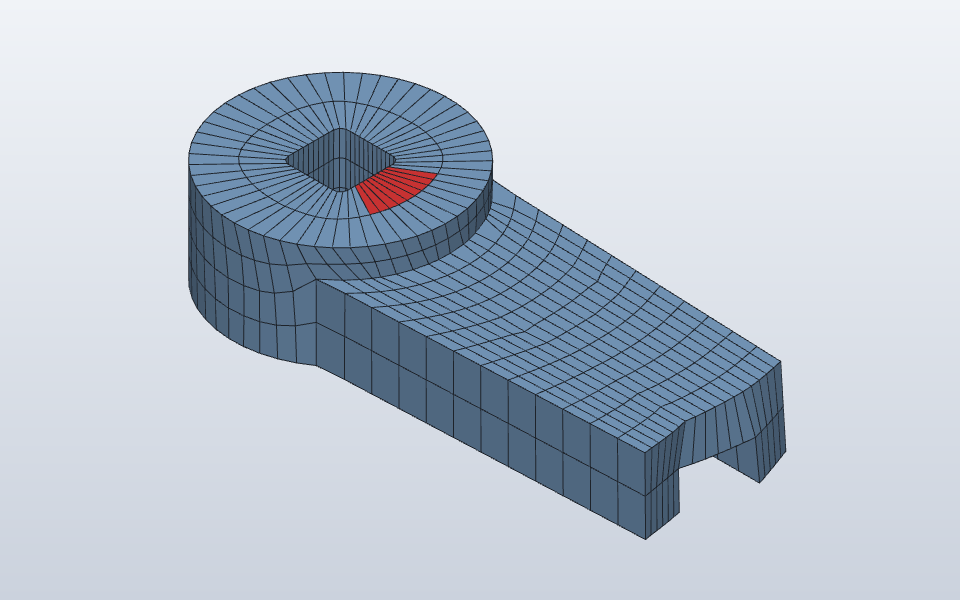
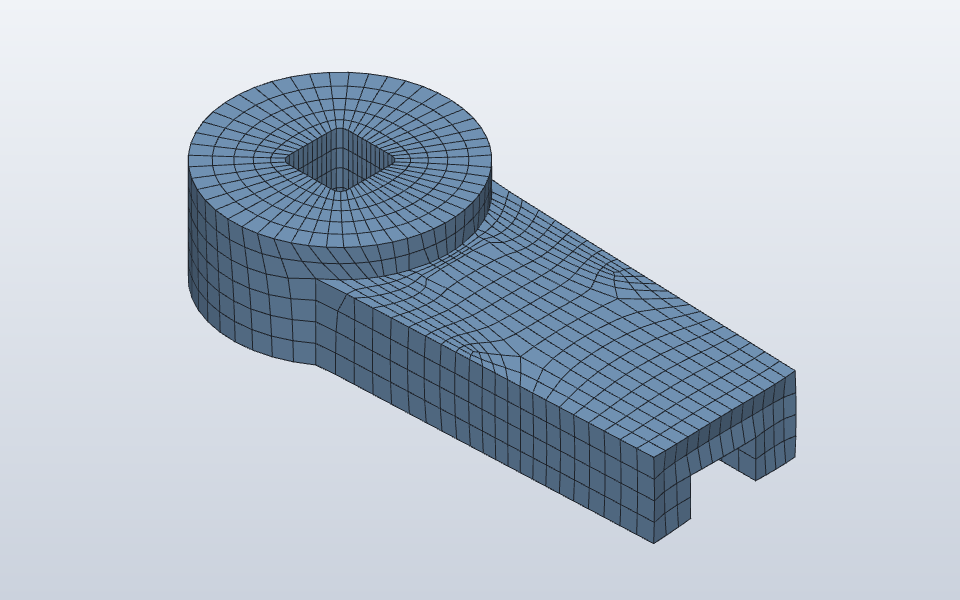
docs: skill results with the plan sized for its chords
Claude-Session: https://claude.ai/code/session_01UhhZMBTviDQxZvwnyP89fo

Changed region(s): [[0.1875, 0.12, 0.8438, 0.9]]

diff --git a/docs/meshing/skill-results.md b/docs/meshing/skill-results.md
@@ -19,7 +19,7 @@ with (a set on them finds nothing); `marked` the elements failing the limits bef
 relaxing, and what relaxing changed; ¹ a tet mesh has no edge ratio: its largest aspect ratio
 stands in; `duplicates` coincident nodes and cracks; `geometry.check` its findings at the size;
 `verdict` pass when the minimum scaled Jacobian and the largest edge ratio meet the limits and
-the volume is within 2 % (`pass (fallback)` when a fallback meshed it).
+the volume is within 1 % (`pass (fallback)` when a fallback meshed it).
 The section pictures cut each part through the middle of its longest side, marked elements red.
 Times are wall clock on the machine that ran it.
 
@@ -27,43 +27,41 @@ Times are wall clock on the machine that ran it.
 
 | part | method | symmetry | elements | min SJ | mean SJ | max edge ratio¹ | volume error | untagged faces | marked → after relax | duplicates | geometry.check | time s | verdict | section |
 |---|---|---|---|---|---|---|---|---|---|---|---|---|---|---|
-| bent-tube | plan (sweep) | – | 192 (192 hex8) | 0.861 | 0.865 | 5.0 | -1.7e-1 | 0 | 0 (not relaxed) | none | 8 near_faces, 2 sliver_face | 1.9 | fail (volume) | [y=37.500](skill/bent-tube.png) |
-| bolted-assembly | plan (sweep), mesh.hex.generate (auto) | – | 6272 (6272 hex8) | 0.583 | 0.939 | 3.6 | 2.0e-4 | 0 | 0 (not relaxed) | 8 coincident, 0 cracks | – | 3.9 | pass | [x=50.000](skill/bolted-assembly.png) |
-| cantilever-i-beam | plan (sweep) | – | 61600 (61600 hex8) | 1.000 | 1.000 | 1.0 | 0.0e0 | 0 | 0 (not relaxed) | none | – | 5.7 | pass | [x=100.000](skill/cantilever-i-beam.png) |
-| cross-cylinders | none | – | – | – | – | – | – | – | – | – | – | 18.3 | no mesh | – |
-| filleted-bracket | tet10 | – | 19557 (19557 tet10) | 0.042 | 0.519 | 9.1 | -6.7e-6 | 0 | 1709 (not relaxed) | none | – | 35.5 | fail (SJ) | [x=30.000](skill/filleted-bracket.png) |
-| filleted-bracket-blocks | plan (sweep) | – | 75410 (75410 hex8) | 0.704 | 0.954 | 3.5 | 3.7e-5 | 0 | 0 (not relaxed) | none (after merging 2348 nodes) | – | 16.7 | pass | [x=30.000](skill/filleted-bracket-blocks.png) |
-| i-beam | plan (sweep) | – | 61600 (61600 hex8) | 1.000 | 1.000 | 1.0 | 0.0e0 | 0 | 0 (not relaxed) | none | – | 9.3 | pass | [z=100.000](skill/i-beam.png) |
-| loft-transition | plan (sweep) | – | 2873 (2873 hex8) | 0.189 | 0.960 | 2.2 | -2.1e-3 | 0 | 4 → 4 (4 relaxed, 0 undone; min SJ 0.189 → 0.189, max ratio 1.7 → 2.2) | none | – | 2.3 | fail (SJ) | [z=25.000](skill/loft-transition.png) |
-| perforated-plate | plan (project) | 2 plane(s) | 8576 (8576 hex8) | 0.707 | 0.888 | 3.0 | 7.7e-4 | 0 | 0 (not relaxed) | none | – | 33.5 | pass | [x=60.000](skill/perforated-plate.png) |
-| pinhole-block | plan (project) | 2 plane(s) | 5068 (5068 hex8) | 0.707 | 0.942 | 18.4 | 8.1e-5 | 0 | 1680 (not relaxed) | none | 32 sliver_face | 24.0 | fail (ratio) | [y=25.000](skill/pinhole-block.png) |
-| rounded-box | plan (project) | 2 plane(s) | 9260 (9260 hex8) | 0.734 | 0.985 | 2.2 | -4.1e-3 | 0 | 0 (not relaxed) | none | – | 10.3 | pass | [x=20.000](skill/rounded-box.png) |
+| bent-tube | plan (sweep) | – | 22272 (22272 hex8) | 0.998 | 0.998 | 1.4 | -2.8e-3 | 0 | 0 (not relaxed) | none | – | 3.7 | pass | [y=37.500](skill/bent-tube.png) |
+| bolted-assembly | plan (sweep), mesh.hex.generate (auto) | – | 6272 (6272 hex8) | 0.583 | 0.939 | 3.6 | 2.0e-4 | 0 | 0 (not relaxed) | 8 coincident, 0 cracks | – | 3.7 | pass | [x=50.000](skill/bolted-assembly.png) |
+| cantilever-i-beam | plan (sweep) | – | 61600 (61600 hex8) | 1.000 | 1.000 | 1.0 | 0.0e0 | 0 | 0 (not relaxed) | none | – | 8.5 | pass | [x=100.000](skill/cantilever-i-beam.png) |
+| cross-cylinders | none | – | – | – | – | – | – | – | – | – | – | 27.2 | no mesh | – |
+| filleted-bracket | tet10 | – | 21525 (21525 tet10) | 0.021 | 0.535 | 13.5 | -7.0e-6 | 0 | 1492 (not relaxed) | none | – | 15.9 | fail (SJ, ratio) | [x=30.000](skill/filleted-bracket.png) |
+| filleted-bracket-blocks | plan (sweep) | – | 75410 (75410 hex8) | 0.704 | 0.954 | 3.5 | 3.7e-5 | 0 | 0 (not relaxed) | none (after merging 2348 nodes) | – | 6.9 | pass | [x=30.000](skill/filleted-bracket-blocks.png) |
+| i-beam | plan (sweep) | – | 61600 (61600 hex8) | 1.000 | 1.000 | 1.0 | 0.0e0 | 0 | 0 (not relaxed) | none | – | 4.5 | pass | [z=100.000](skill/i-beam.png) |
+| loft-transition | plan (sweep) | – | 2873 (2873 hex8) | 0.189 | 0.959 | 1.7 | -2.1e-3 | 0 | 4 → 4 (4 relaxed, 0 undone; min SJ 0.189 → 0.189, max ratio 1.7 → 1.7) | none | – | 0.9 | fail (SJ) | [z=25.000](skill/loft-transition.png) |
+| perforated-plate | plan (project) | 2 plane(s) | 8576 (8576 hex8) | 0.707 | 0.888 | 3.0 | 7.7e-4 | 0 | 0 (not relaxed) | none | – | 9.5 | pass | [x=60.000](skill/perforated-plate.png) |
+| pinhole-block | plan (project) | 2 plane(s) | 40768 (40768 hex8) | 0.707 | 0.984 | 8.0 | 8.1e-5 | 0 | 0 (not relaxed) | none | – | 25.5 | pass | [y=25.000](skill/pinhole-block.png) |
+| rounded-box | plan (project) | 2 plane(s) | 11520 (11520 hex8) | 0.717 | 0.973 | 4.0 | -4.1e-3 | 0 | 0 (not relaxed) | none | – | 8.7 | pass | [x=20.000](skill/rounded-box.png) |
 | shallow-groove | plan (sweep) | – | 1960 (1960 hex8) | 0.991 | 0.999 | 1.1 | 2.7e-4 | 0 | 0 (not relaxed) | none | – | 0.2 | pass | [x=30.000](skill/shallow-groove.png) |
 | sharp-wedge | plan (sweep) | – | 1674 (1674 hex8) | 0.014 | 0.301 | 149.6 | 2.7e-15 | 0 | 1524 (not relaxed) | none | – | 0.2 | fail (SJ, ratio) | [x=40.000](skill/sharp-wedge.png) |
-| sphere-on-plate | tet10 | – | 15073 (15073 tet10) | 0.121 | 0.558 | 6.2 | -1.1e-4 | 0 | 662 (not relaxed) | none | – | 5.0 | fail (SJ) | [y=0.000](skill/sphere-on-plate.png) |
-| spline-vase | plan (sweep) | – | 4536 (4536 hex8) | 0.665 | 0.945 | 9.9 | -6.6e-3 | 0 | 0 (not relaxed) | none | – | 0.8 | pass | [z=-35.000](skill/spline-vase.png) |
-| stepped-block | plan (cells) | – | 1416 (1416 hex8) | 1.000 | 1.000 | 1.3 | -4.8e-15 | 0 | 0 (not relaxed) | none | – | 0.5 | pass | [x=30.000](skill/stepped-block.png) |
-| thin-ribs | plan (sweep) | – | 301308 (301308 hex8) | 0.999 | 1.000 | 1.3 | -3.4e-12 | 0 | 0 (not relaxed) | none | – | 34.0 | pass | [x=50.000](skill/thin-ribs.png) |
-| thin-wall-enclosure | plan (sweep) | – | 124512 (124512 hex8) | 1.000 | 1.000 | 1.0 | 0.0e0 | 0 | 0 (not relaxed) | none | – | 21.8 | pass | [x=40.000](skill/thin-wall-enclosure.png) |
-| analytic-sphere | mesh.hex.project (sphere) | – | 864 (864 hex8) | 0.702 | 0.929 | 2.7 | -3.0e-2 | 0 | 0 (not relaxed) | none | – | 2.5 | fail (volume) | [z=0.000](skill/analytic-sphere.png) |
-| analytic-torus | plan (sweep) | – | 1080 (1080 hex8) | 0.834 | 0.909 | 2.4 | -4.7e-2 | 0 | 0 (not relaxed) | none | – | 1.0 | fail (volume) | [x=0.000](skill/analytic-torus.png) |
-| analytic-cylinder | plan (project) | – | 1700 (1700 hex8) | 0.845 | 0.970 | 1.9 | -1.6e-2 | 0 | 0 (not relaxed) | none | – | 1.4 | pass | [z=20.000](skill/analytic-cylinder.png) |
-| analytic-pipe | plan (project) | – | 1008 (1008 hex8) | 0.996 | 0.996 | 1.4 | -5.0e-3 | 0 | 0 (not relaxed) | none | – | 1.0 | pass | [z=30.000](skill/analytic-pipe.png) |
-| analytic-plate-hole | plan (project) | – | 5856 (5856 hex8) | 0.937 | 0.996 | 3.0 | 4.3e-5 | 0 | 0 (not relaxed) | none | – | 5.8 | pass | [x=100.000](skill/analytic-plate-hole.png) |
-| crank-arm | plan (project) | – | 1372 (1372 hex8) | 0.544 | 0.860 | 10.5 | -3.3e-3 | 0 | 9 (9 relaxations undone: worse) | none | 16 short_edge, 9 sliver_face | 48.2 | fail (ratio) | [x=81.000](skill/crank-arm.png) |
-| upright-bracket | plan (sweep) | – | 1364 (1364 hex8) | 0.707 | 0.968 | 3.1 | 2.1e-4 | 0 | 0 (not relaxed) | none | – | 0.2 | pass | [x=30.000](skill/upright-bracket.png) |
-| pi5-base | plan (project) | 1 plane(s) | 29852 (29852 hex8) | 0.683 | 0.969 | 4.9 | -3.0e-3 | 0 | 0 (not relaxed) | none | 8 short_edge, 4 sliver_face | 197.5 | pass | [x=56.000](skill/pi5-base.png) |
-| pi5-lid | plan (project) | – | 5130 (5130 hex8) | 0.724 | 0.868 | 3.9 | -2.9e-4 | 0 | 0 (not relaxed) | none | – | 10.7 | pass | [x=56.000](skill/pi5-lid.png) |
-| cup | plan (project) | – | 1114 (1114 hex8) | 0.701 | 0.921 | 5.0 | -4.5e-3 | 0 | 0 (not relaxed) | none | – | 3.0 | pass | [x=5.000](skill/cup.png) |
-| plain-cup | mesh.hex.generate (auto) | – | 2000 (2000 hex8) | 0.820 | 0.995 | 4.7 | -2.3e-3 | 0 | 0 (not relaxed) | none | – | 0.9 | pass (fallback) | [x=0.000](skill/plain-cup.png) |
+| sphere-on-plate | tet10 | – | 23799 (23799 tet10) | 0.092 | 0.587 | 5.9 | -8.7e-5 | 0 | 679 (not relaxed) | none | – | 13.7 | fail (SJ) | [y=0.000](skill/sphere-on-plate.png) |
+| spline-vase | plan (sweep) | – | 4536 (4536 hex8) | 0.665 | 0.945 | 9.9 | -6.6e-3 | 0 | 0 (not relaxed) | none | – | 2.3 | pass | [z=-35.000](skill/spline-vase.png) |
+| stepped-block | plan (cells) | – | 1416 (1416 hex8) | 1.000 | 1.000 | 1.3 | -4.8e-15 | 0 | 0 (not relaxed) | none | – | 1.6 | pass | [x=30.000](skill/stepped-block.png) |
+| thin-ribs | plan (sweep) | – | 301308 (301308 hex8) | 0.999 | 1.000 | 1.3 | -3.4e-12 | 0 | 0 (not relaxed) | none | – | 34.7 | pass | [x=50.000](skill/thin-ribs.png) |
+| thin-wall-enclosure | plan (sweep) | – | 124512 (124512 hex8) | 1.000 | 1.000 | 1.0 | 0.0e0 | 0 | 0 (not relaxed) | none | – | 13.5 | pass | [x=40.000](skill/thin-wall-enclosure.png) |
+| analytic-sphere | mesh.hex.project (sphere) | – | 3400 (3400 hex8) | 0.728 | 0.968 | 3.3 | -1.1e-2 | 0 | 0 (not relaxed) | none | – | 8.8 | fail (volume) | [z=0.000](skill/analytic-sphere.png) |
+| analytic-torus | plan (sweep) | – | 48360 (48360 hex8) | 0.837 | 0.986 | 2.9 | -4.2e-3 | 0 | 0 (not relaxed) | none | – | 9.8 | pass | [x=0.000](skill/analytic-torus.png) |
+| analytic-cylinder | plan (project) | – | 4347 (4347 hex8) | 0.859 | 0.985 | 2.4 | -4.9e-3 | 0 | 0 (not relaxed) | none | – | 7.3 | pass | [z=20.000](skill/analytic-cylinder.png) |
+| analytic-pipe | plan (project) | – | 2244 (2244 hex8) | 0.997 | 0.997 | 1.3 | -3.3e-3 | 0 | 0 (not relaxed) | none | – | 3.6 | pass | [z=30.000](skill/analytic-pipe.png) |
+| analytic-plate-hole | plan (project) | – | 5856 (5856 hex8) | 0.937 | 0.996 | 3.0 | 4.3e-5 | 0 | 0 (not relaxed) | none | – | 4.7 | pass | [x=100.000](skill/analytic-plate-hole.png) |
+| crank-arm | plan (project) | – | 4014 (4014 hex8) | 0.578 | 0.933 | 5.8 | -8.4e-4 | 0 | 0 (not relaxed) | none | 4 short_edge, 2 sliver_face | 21.7 | pass | [x=81.000](skill/crank-arm.png) |
+| upright-bracket | plan (sweep) | – | 1364 (1364 hex8) | 0.707 | 0.968 | 3.1 | 2.1e-4 | 0 | 0 (not relaxed) | none | – | 0.1 | pass | [x=30.000](skill/upright-bracket.png) |
+| pi5-base | plan (project) | 1 plane(s) | 29852 (29852 hex8) | 0.683 | 0.969 | 4.9 | -3.0e-3 | 0 | 0 (not relaxed) | none | 8 short_edge, 4 sliver_face | 131.2 | pass | [x=56.000](skill/pi5-base.png) |
+| pi5-lid | plan (project) | – | 5130 (5130 hex8) | 0.724 | 0.868 | 3.9 | -2.9e-4 | 0 | 0 (not relaxed) | none | – | 10.5 | pass | [x=56.000](skill/pi5-lid.png) |
+| cup | plan (project) | – | 1258 (1258 hex8) | 0.702 | 0.929 | 5.0 | -3.5e-3 | 0 | 0 (not relaxed) | none | – | 3.0 | pass | [x=5.000](skill/cup.png) |
+| plain-cup | mesh.hex.generate (auto) | – | 2000 (2000 hex8) | 0.820 | 0.995 | 4.7 | -2.3e-3 | 0 | 0 (not relaxed) | none | – | 1.3 | pass (fallback) | [x=0.000](skill/plain-cup.png) |
 
 ## Why a part fails
 
 Each earlier method's error, in the order the skill tries them, and for a part that fails the
 limits the cause read from its numbers and section picture.
 
-- `bent-tube` (corpus: A 10 mm tube with a 1 mm wall, bent through R30: a thin-walled sweep along a line-arc-line path.):
-  - **fail (volume)**: the plan's default size (1/25 of the diagonal) puts six elements round the Ø10 tube: the swept section is a hexagon and loses 17 % of the volume. Size from the tube's radius (§5), not the part's diagonal.
 - `bolted-assembly` (corpus: A base plate with a clamp block component placed twice, once turned 90 degrees: bodies placed by component transforms.):
   - Clamp body: mesh.plan.apply: mesh plan `Plan-Clamp_body`: the projected layout does not mesh: invalid input: node 3076 at [11.000000000000004, 10.0, 5.0] lies on the edge between nodes 2640 and 2715: new elements must meet the mesh face to face, with the same divisions…
   - Clamp body (Clamp:2): mesh.plan.apply: mesh plan `Plan-Clamp_body__Clamp_2_`: the projected layout does not mesh: invalid input: node 5884 at [66.42857142857143, 5.000000000000001, 5.0] lies on the edge between nodes 984 and 1059: new elements must meet the mesh face to face, wi…
@@ -71,34 +69,28 @@ limits the cause read from its numbers and section picture.
   - Cross: mesh.plan.apply: mesh plan `Plan-Cross`: the cells ["Cross"] (cuts []) do not mesh all-hex: body `Cross`: invalid boundary surface: 28 defects; triangles 142 and 254 are oriented inconsistently across edge 0–396 at (-15.488656021315903, 4.577998041166734, 7…
   - Cross: mesh.hex.generate: body `Cross`: invalid boundary surface: 28 defects; triangles 146 and 258 are oriented inconsistently across edge 0–402 at (-15.488656021315903, 4.577998041166734, 7.853092194999726); triangles 255 and 258 are oriented inconsistently across…
   - Cross: mesh.hex.project (sphere): body `Cross`: invalid boundary surface: 28 defects; triangles 146 and 258 are oriented inconsistently across edge 0–402 at (-15.488656021315903, 4.577998041166734, 7.853092194999726); triangles 255 and 258 are oriented inconsistently across…
-  - Cross: mesh.tet.generate: invalid boundary surface: 28 defects; triangles 146 and 258 are oriented inconsistently across edge 0–402 at (-15.488656021315903, 4.577998041166734, 7.853092194999726); triangles 255 and 258 are oriented inconsistently across edge 0–565 at…
+  - Cross: mesh.tet.generate: invalid boundary surface: 28 defects; triangles 76 and 78 are oriented inconsistently across edge 9–230 at (-18.75000000000002, 5.634596901641276, 7.632255089815496); triangles 77 and 78 are oriented inconsistently across edge 9–232 at (-15…
   - **no mesh**: the boundary tessellation of the joined cylinders is invalid (inconsistent orientation at the two singular points), so every mesher refuses the body.
 - `filleted-bracket` (corpus: An 8 mm L-bracket with an R6 inside fillet and a hole through each leg: a blend beside holes.):
   - Bracket: mesh.plan.apply: mesh plan `Plan-Bracket`: the cells ["Bracket"] (cuts []) do not mesh all-hex: body `Bracket`: not supported yet: no structured hex method fits this body (extrude: cylindrical face 8 is not parallel to the direction; sweep: from face 1: lin…
   - Bracket: mesh.hex.generate: body `Bracket`: not supported yet: no structured hex method fits this body (extrude: cylindrical face 8 is not parallel to the direction; sweep: from face 1: linking face 6 has 2 boundary loops (periodic or holed linking faces are not swept…
-  - Bracket: mesh.hex.project (sphere): body `Bracket`: meshing failed: 120 of 5104 elements are inverted, twisted or degenerate after projection (certified Jacobian; smallest corner scaled Jacobian -0.760): block 1 cell [4, 0, 0] near (20.373, 3.413, 3.606); block 1 cell [5, 0, …
-  - **fail (SJ)**: no structured method takes the whole body (the plan has no cuts for the fillet beside the holes), and tet10 at the plan's size leaves slivers (min SJ 0.04, 1709 marked). The same part partitioned into mapped cells (`filleted-bracket-blocks`) passes: partition (§3.4).
+  - Bracket: mesh.hex.project (sphere): body `Bracket`: meshing failed: 91 of 5104 elements are inverted, twisted or degenerate after projection (certified Jacobian; smallest corner scaled Jacobian -0.760): block 1 cell [3, 3, 0] near (12.519, 11.405, 1.604); block 1 cell [3, 4, …
+  - **fail (SJ, ratio)**: no structured method takes the whole body (the plan has no cuts for the fillet beside the holes), and tet10 at the plan's size leaves slivers (min SJ 0.04, 1709 marked). The same part partitioned into mapped cells (`filleted-bracket-blocks`) passes: partition (§3.4).
 - `loft-transition` (corpus: A 40 mm square lofted to an R15 circle 50 mm above: a ruled free-form surface between unlike sections.):
   - **fail (SJ)**: the lofted sides are swept one to one, and the elements where the section changes shape are skewed (min SJ 0.19). Relaxing the four marked elements did not raise it: the blocks are wrong, not the nodes (§6.3). A loft has no template yet (`unmapped`).
-- `pinhole-block` (corpus: A 50 mm block drilled through by sixteen 0.6 mm pinholes: features 80 times smaller than the part, genus 16.):
-  - **fail (ratio)**: the plan's cuts run beside the small holes' frames and leave strips of thin elements along the cut planes (red in the picture, edge ratio 18): 1680 marked, a clustered failure. §4: offset a cut one element out of the feature.
 - `sharp-wedge` (corpus: A wedge whose faces meet at under 3 degrees: a sharp edge with a needle-thin cross-section.):
-  - **fail (SJ, ratio)**: the wedge's sharp edge is swept as hex, so every element tapers to it (min SJ 0.01, edge ratio 150). §4: a column of wedge6 at the edge; the plan has no wedge template.
+  - **fail (SJ, ratio)**: the wedge's sharp edge is swept as hex, so every element tapers to it (min SJ 0.01, edge ratio 150). A column of wedge6 at the edge (§4) raises the SJ but not the ratio: any element with a corner on a 2.9° edge has sides at least 1/tan 2.9° ≈ 20 times its width there, twice the limit. The edge has to be blunted (defeatured) or the limit waived along it.
 - `sphere-on-plate` (corpus: A sphere sunk 0.1 mm into a plate: the faces meet at under 6 degrees around a 2 mm circle.):
   - Plate: mesh.plan.apply: mesh plan `Plan-Plate`: the cells ["Plate"] (cuts []) do not mesh all-hex: body `Plate`: not supported yet: no structured hex method fits this body (extrude: face 6 is curved across the direction; sweep: from face 0: 6 faces are not on the …
   - Plate: mesh.hex.generate: body `Plate`: not supported yet: no structured hex method fits this body (extrude: face 6 is curved across the direction; sweep: from face 0: 6 faces are not on the sweep path; from face 5: linking face 11 has 2 boundary loops (periodic or …
-  - Plate: mesh.hex.project (sphere): body `Plate`: meshing failed: the mesh volume 32014.728344815157 is far from the body's 69353.30815403847: the blocks do not cover the part (every outer block face must stand for part of its surface)
+  - Plate: mesh.hex.project (sphere): body `Plate`: meshing failed: the mesh volume 32917.42909007507 is far from the body's 69353.30815403847: the blocks do not cover the part (every outer block face must stand for part of its surface)
   - **fail (SJ)**: no structured method takes the plate with the sunk sphere, and tet10 leaves slivers (min SJ 0.12, 662 marked).
 - `analytic-sphere` (corpus: Sphere r 20: curvature everywhere, no edges.):
   - Sphere: mesh.plan.apply: mesh plan `Plan-Sphere`: the cells ["Sphere"] (cuts []) do not mesh all-hex: body `Sphere`: not supported yet: no structured hex method fits this body (extrude: no direction to try; sweep: no planar face to sweep from; revolve: no axis to t…
   - Sphere: mesh.hex.generate: body `Sphere`: not supported yet: no structured hex method fits this body (extrude: no direction to try; sweep: no planar face to sweep from; revolve: no axis to try; mapped: meshing failed: meshing failed: mesh validity gate: 8 inverted or…
-  - **fail (volume)**: the sphere template meshes it cleanly, but hex8 faces chord the sphere at the plan's size and the mesh is 3 % short of its volume: refine, or hex20 (`order: 2`).
-- `analytic-torus` (corpus: Torus 30/8: genus 1 with doubly curved faces and no edges.):
-  - **fail (volume)**: the revolve is clean, but hex8 faces chord the torus at the plan's size and the mesh is 4.7 % short of its volume: refine, or hex20.
-- `crank-arm` (sample `crank-arm`: the 170 mm bicycle crank, mirror symmetric across y = 0):
-  - **fail (ratio)**: the edge ratio is 10.5 in the nine elements at the square bore's R1.5 corners, just over the limit. Relaxing each raised its region's edge ratio, so each was undone (§6.3). `mesh.plan.apply` did not find the y = 0 symmetry plane; the sample meshes the partitioned half and mirrors it.
+  - **fail (volume)**: no structured method takes a sphere (it has no face to sweep from or axis to revolve about), so the plan does not apply and the fallback's sphere template meshes it at the plan's size (2.45 mm, which keeps a sphere's chords to 0.75 % on paper), 1.1 % short of the volume: the template's elements at the cube's eight corners span more of the sphere than the size. A sphere template in the plan (§3) would size its caps; hex20 (`order: 2`) closes it too.
 - `plain-cup` (the cup without its handle (#418)):
-  - Cup: mesh.plan.apply: mesh plan `Plan-Cup`: the projected layout does not mesh: body `Cup`: meshing failed: the mesh volume 4994.312243612882 is far from the body's 16760.91944296662: the blocks do not cover the part (every outer block face must stand for part o…
+  - Cup: mesh.plan.apply: mesh plan `Plan-Cup`: the projected layout does not mesh: body `Cup`: meshing failed: the mesh volume 5012.205781249979 is far from the body's 16760.91944296662: the blocks do not cover the part (every outer block face must stand for part o…
 
 ## Parts
 
